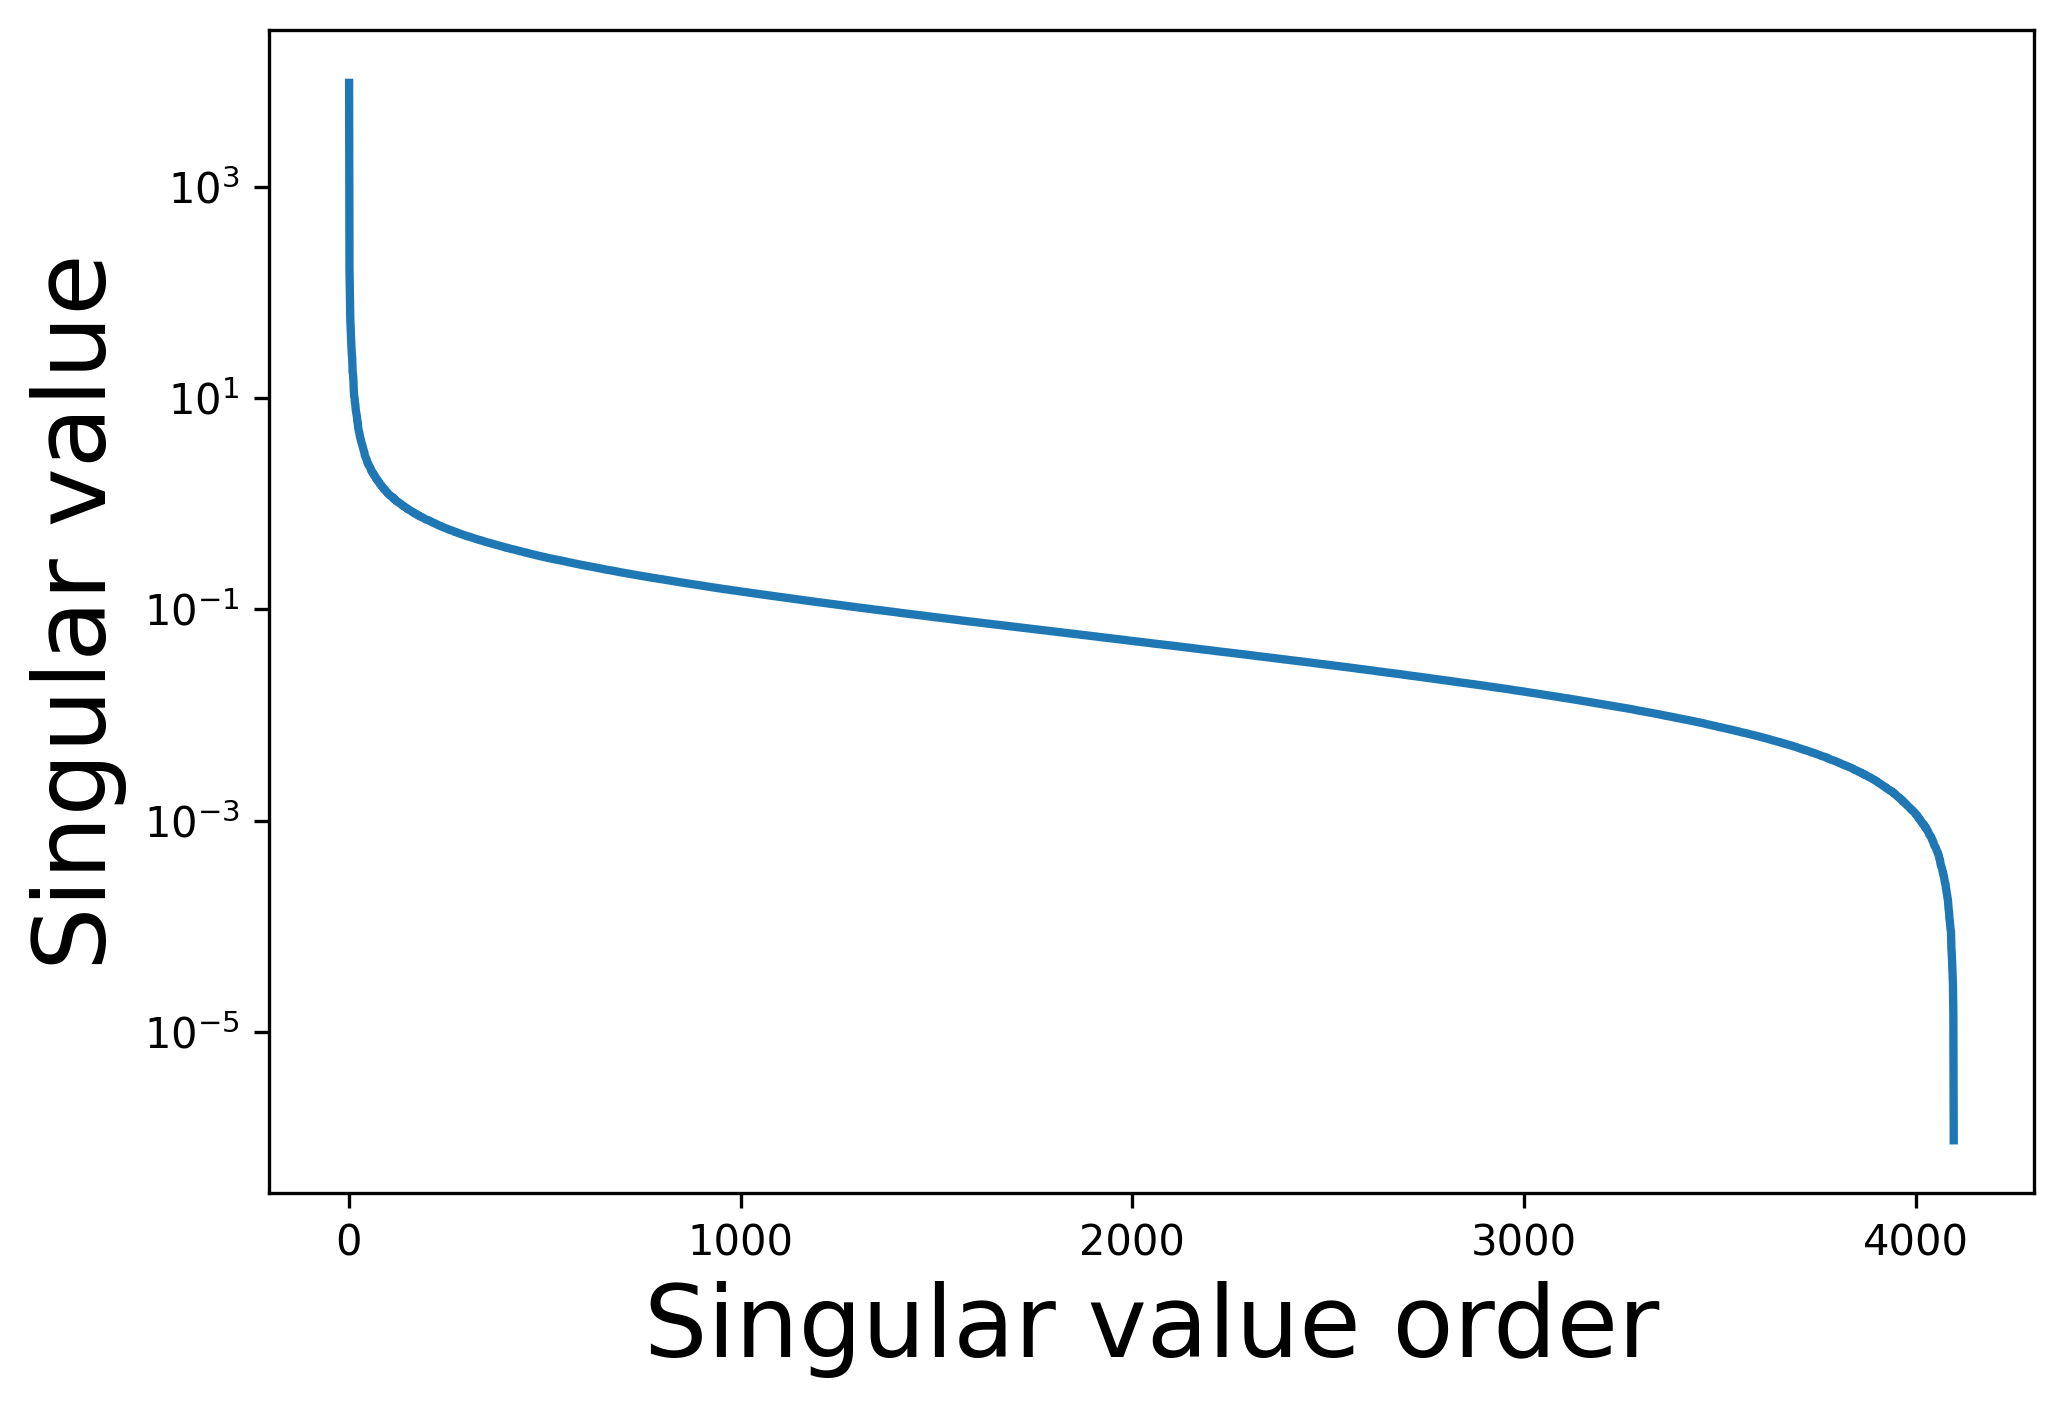
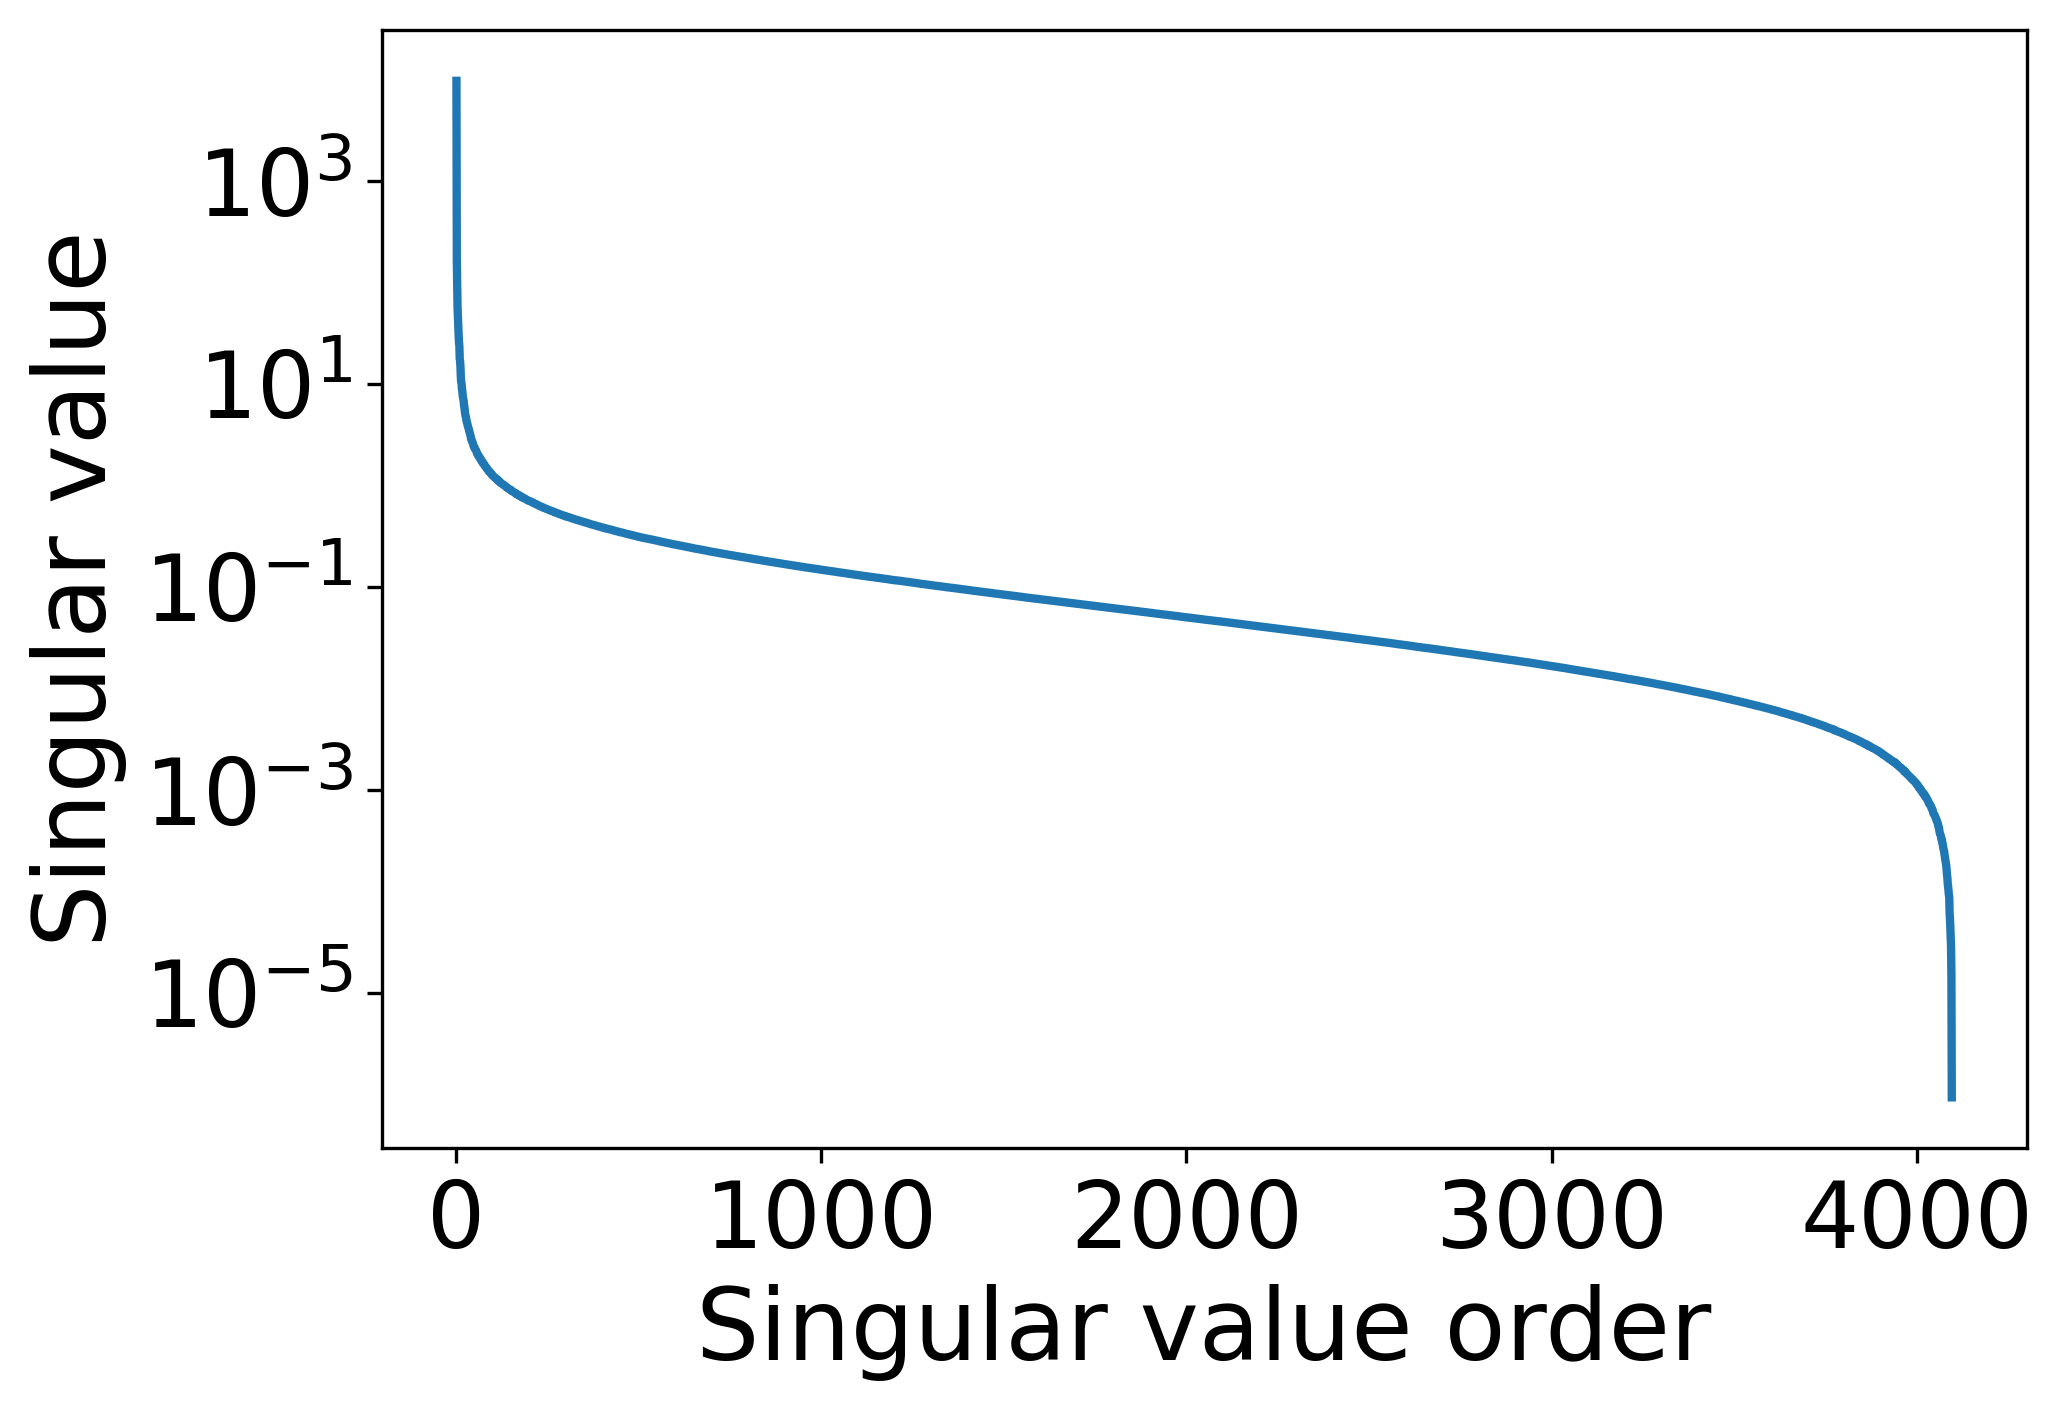
Enlarge tick numbers in singular value figures
Tick labels on both axes were matplotlib's default 10pt next to 24pt axis
labels. Add a --tick_fontsize option (default 22) to plot_singular_values.py
and regenerate all six mathematics_llama PNGs. Curves are drawn from the
existing singular value .txt files, which a fresh recompute from the NPZ
data reproduced, so only the tick font changes.

diff --git a/src/experiments/plot_singular_values.py b/src/experiments/plot_singular_values.py
@@ -81,6 +81,8 @@ def parse_args():
                     help="Optional filename prefix. Defaults to the bias type, e.g. reputation.png.")
     ap.add_argument("--logy", action="store_true",
                     help="Use log scale on y-axis.")
+    ap.add_argument("--tick_fontsize", type=float, default=22,
+                    help="Font size of the tick numbers on both axes (axis labels stay at 24).")
     args = ap.parse_args()
 
     if args.values_txt is None and args.npz_path is None:
@@ -257,7 +259,7 @@ def compute_textual_z_singular_values(npz_path: Path, x_key: str, y_key: str) ->
     return s, x.shape, y.shape
 
 
-def plot_values(values: np.ndarray, out_dir: str, output_prefix: str, logy: bool) -> None:
+def plot_values(values: np.ndarray, out_dir: str, output_prefix: str, logy: bool, tick_fontsize: float = 22) -> None:
     import matplotlib.pyplot as plt
     import numpy as np
 
@@ -272,6 +274,9 @@ def plot_values(values: np.ndarray, out_dir: str, output_prefix: str, logy: bool
 
     if logy:
         plt.yscale("log")
+
+    # Set after yscale so the log-axis tick labels pick up the size too.
+    plt.tick_params(axis="both", which="both", labelsize=tick_fontsize)
 
     plt.tight_layout()
     plt.savefig(os.path.join(out_dir, f"{output_prefix}.pdf"), bbox_inches="tight")
@@ -329,7 +334,7 @@ def main():
             print(f"Computed {len(s)} singular values")
 
         np.savetxt(os.path.join(args.out_dir, f"{output_prefix}.txt"), s)
-        plot_values(s, args.out_dir, output_prefix, args.logy)
+        plot_values(s, args.out_dir, output_prefix, args.logy, args.tick_fontsize)
         print(f"Saved {output_prefix}.pdf/.png/.txt to {args.out_dir}")
 
 
